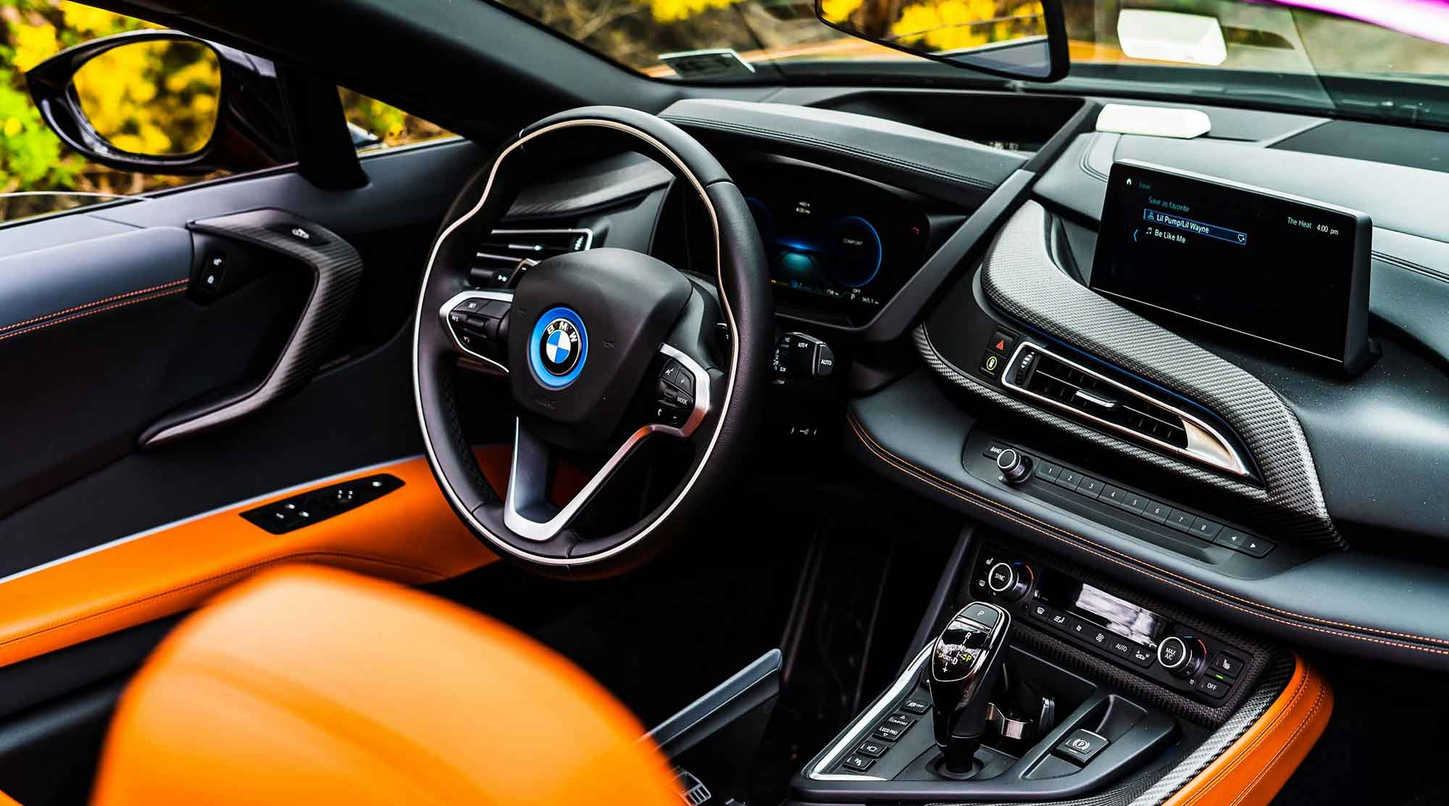
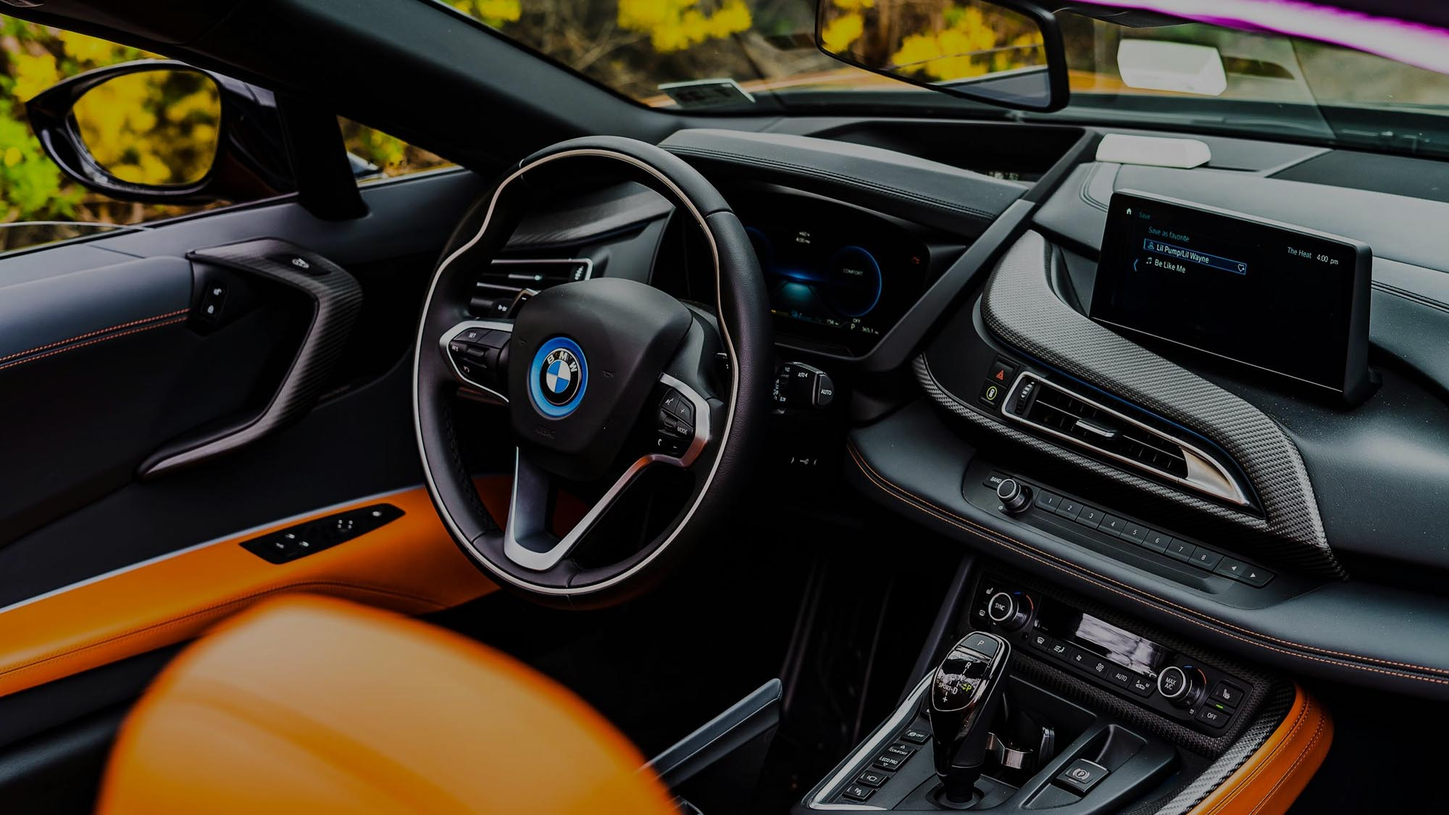
changed img backround about

diff --git a/style/style-about.css b/style/style-about.css
@@ -1,1 +1,1 @@
-header{background-color:black;padding:20px;position:fixed;width:100%;z-index:100}header .navigation{max-width:1300px;width:100%;min-height:30px;margin:auto;display:-webkit-box;display:-ms-flexbox;display:flex;-webkit-box-pack:justify;-ms-flex-pack:justify;justify-content:space-between;-webkit-box-align:center;-ms-flex-align:center;align-items:center;-webkit-box-orient:horizontal;-webkit-box-direction:normal;-ms-flex-direction:row;flex-direction:row;-ms-flex-wrap:nowrap;flex-wrap:nowrap}header .navigation .logo{font-size:25px;color:#FFFFFF;font-family:"Inter Tight",sans-serif;font-weight:300;letter-spacing:3px}header .navigation .logo span{color:#FFD700;font-style:italic}header .navigation .icon{display:none;font-size:30px;color:#FFD700;margin-top:20px;cursor:pointer}header .navigation .list-container{display:-webkit-box;display:-ms-flexbox;display:flex;-webkit-box-align:center;-ms-flex-align:center;align-items:center}header .navigation .list-container li a{color:#FFFFFF;padding:22px 25px;-webkit-transition:all 0.2s ease,color 0.3s ease;transition:all 0.2s ease,color 0.3s ease;font-family:"Inter Tight",sans-serif;font-weight:300;letter-spacing:2px}header .navigation .list-container li a:hover{color:#FFD700;border-bottom:3px solid #FFD700}header .navigation .list-container li a.active{background-color:rgb(26,21,21);color:#FFD700;border-bottom:3px solid #FFD700}@media screen and (max-width:900px){header .navigation{max-width:600px}header .navigation .icon{display:block}header .navigation .list-container{max-width:100vw;width:100%;min-height:100vh;display:none;-ms-flex-pack:distribute;justify-content:space-around;-webkit-box-align:center;-ms-flex-align:center;align-items:center;-webkit-box-orient:vertical;-webkit-box-direction:normal;-ms-flex-direction:column;flex-direction:column;position:absolute;gap:0;padding:0px;margin:0px;top:70px;left:0;background-color:rgba(0,0,0,0.95);z-index:100}header .navigation .list-container.show{display:-webkit-box;display:-ms-flexbox;display:flex}}.about-wrapper{max-width:100vw;min-height:100vh;width:100%;background-image:url(../../../image/internbmw.jpg);background-size:cover;background-position:center;height:500px;background-repeat:no-repeat;background-position:center;background-size:cover;display:-webkit-box;display:-ms-flexbox;display:flex;padding-top:70px}.about-wrapper .about-hero-container{max-width:1200px;width:100%;min-height:200px;margin:auto;display:-webkit-box;display:-ms-flexbox;display:flex;-webkit-box-pack:justify;-ms-flex-pack:justify;justify-content:space-between;-webkit-box-align:center;-ms-flex-align:center;align-items:center;-webkit-box-orient:vertical;-webkit-box-direction:normal;-ms-flex-direction:column;flex-direction:column;-ms-flex-wrap:nowrap;flex-wrap:nowrap;border-radius:5px;background-color:rgba(255,255,255,0.1)}.about-wrapper .about-hero-container .about-title{max-width:1300px;width:100%;min-height:100px;font-family:"Inter Tight",sans-serif;font-weight:200;font-size:90px;letter-spacing:10px;color:#FFFFFF;-webkit-animation:slide-in-title 1.3s ease-in-out;animation:slide-in-title 1.3s ease-in-out;text-align:center;margin:0}@-webkit-keyframes slide-in-title{0%{-webkit-transform:translateX(-100%);transform:translateX(-100%);opacity:0}to{-webkit-transform:translateX(0);transform:translateX(0);opacity:1}}@keyframes slide-in-title{0%{-webkit-transform:translateX(-100%);transform:translateX(-100%);opacity:0}to{-webkit-transform:translateX(0);transform:translateX(0);opacity:1}}.about-wrapper .about-hero-container .cta{font-family:"Inter Tight",sans-serif;font-weight:200;font-size:18px;letter-spacing:2px;color:#FFFFFF;line-height:26px;letter-spacing:2px;text-align:center;max-width:150px;width:100%;min-height:70px;display:-webkit-box;display:-ms-flexbox;display:flex;-webkit-box-pack:justify;-ms-flex-pack:justify;justify-content:space-between;-webkit-box-align:center;-ms-flex-align:center;align-items:center;-webkit-box-orient:vertical;-webkit-box-direction:normal;-ms-flex-direction:column;flex-direction:column;-ms-flex-wrap:nowrap;flex-wrap:nowrap;color:#FFFFFF;cursor:pointer;-webkit-animation:fade-in 2.5s ease-in-out;animation:fade-in 2.5s ease-in-out}@-webkit-keyframes fade-in{0%{opacity:0}to{opacity:1}}@keyframes fade-in{0%{opacity:0}to{opacity:1}}.about-wrapper .about-hero-container .cta a{display:-webkit-box;display:-ms-flexbox;display:flex;-webkit-box-pack:justify;-ms-flex-pack:justify;justify-content:space-between;-webkit-box-align:center;-ms-flex-align:center;align-items:center;-webkit-box-orient:vertical;-webkit-box-direction:normal;-ms-flex-direction:column;flex-direction:column;-ms-flex-wrap:nowrap;flex-wrap:nowrap;max-width:200px;min-height:80px;width:100%;color:#FFFFFF}.about-wrapper .about-hero-container .cta a .bounce{-webkit-animation:bounce 2s ease infinite;animation:bounce 2s ease infinite}@-webkit-keyframes bounce{0%,20%,50%,80%,to{-webkit-transform:translateY(0);transform:translateY(0)}40%{-webkit-transform:translateY(-30px);transform:translateY(-30px)}60%{-webkit-transform:translateY(-15px);transform:translateY(-15px)}}@keyframes bounce{0%,20%,50%,80%,to{-webkit-transform:translateY(0);transform:translateY(0)}40%{-webkit-transform:translateY(-30px);transform:translateY(-30px)}60%{-webkit-transform:translateY(-15px);transform:translateY(-15px)}}.team-wrapper{max-width:100vw;width:100%;min-height:300px;background-color:#FFAD60;display:-webkit-box;display:-ms-flexbox;display:flex;padding:100px 0}.team-wrapper .team-container{max-width:1300px;min-height:750px;width:100%;background-color:#FFAD60;margin:auto;display:-webkit-box;display:-ms-flexbox;display:flex;-webkit-box-pack:justify;-ms-flex-pack:justify;justify-content:space-between;-webkit-box-align:start;-ms-flex-align:start;align-items:flex-start;-webkit-box-orient:vertical;-webkit-box-direction:normal;-ms-flex-direction:column;flex-direction:column;-ms-flex-wrap:nowrap;flex-wrap:nowrap}.team-wrapper .team-container .title-container{max-width:1300px;min-height:100px;width:100%}.team-wrapper .team-container .title-container .heading{font-family:"Inter Tight",sans-serif;font-weight:400;font-size:70px;letter-spacing:10px;color:#333333}.team-wrapper .team-container .team-info-text-container{max-width:1300px;min-height:400px;width:100%;display:-webkit-box;display:-ms-flexbox;display:flex;-webkit-box-pack:justify;-ms-flex-pack:justify;justify-content:space-between;-webkit-box-align:start;-ms-flex-align:start;align-items:flex-start;-webkit-box-orient:vertical;-webkit-box-direction:normal;-ms-flex-direction:column;flex-direction:column;-ms-flex-wrap:nowrap;flex-wrap:nowrap}.team-wrapper .team-container .team-info-text-container .team-info{font-family:"Inter Tight",sans-serif;font-weight:200;font-size:18px;line-height:30px;letter-spacing:2px;color:rgb(26,21,21);line-height:26px;letter-spacing:2px;text-align:justify}.team-wrapper .team-container .team-info-text-container .team-info span{font-style:italic}.team-wrapper .team-container .team_cards{max-width:1300px;min-height:100px;width:100%;margin:auto;display:-webkit-box;display:-ms-flexbox;display:flex;-ms-flex-pack:distribute;justify-content:space-around;-webkit-box-align:center;-ms-flex-align:center;align-items:center;-webkit-box-orient:horizontal;-webkit-box-direction:normal;-ms-flex-direction:row;flex-direction:row;-ms-flex-wrap:wrap;flex-wrap:wrap}.team-wrapper .team-container .team_cards .card{max-width:200px;min-height:100px;width:100%;display:-webkit-box;display:-ms-flexbox;display:flex;-webkit-box-pack:justify;-ms-flex-pack:justify;justify-content:space-between;-webkit-box-align:center;-ms-flex-align:center;align-items:center;-webkit-box-orient:vertical;-webkit-box-direction:normal;-ms-flex-direction:column;flex-direction:column;-ms-flex-wrap:nowrap;flex-wrap:nowrap}.team-wrapper .team-container .team_cards .card img{border-radius:50px;width:100px;margin-bottom:20px;-webkit-box-shadow:2px 10px 12px #333333;box-shadow:2px 10px 12px #333333;-webkit-transition:-webkit-transform 0.1s ease-in-out,-webkit-box-shadow 0.1s ease-in;transition:-webkit-transform 0.1s ease-in-out,-webkit-box-shadow 0.1s ease-in;transition:transform 0.1s ease-in-out,box-shadow 0.1s ease-in;transition:transform 0.1s ease-in-out,box-shadow 0.1s ease-in,-webkit-transform 0.1s ease-in-out,-webkit-box-shadow 0.1s ease-in}.team-wrapper .team-container .team_cards .card img:hover{-webkit-transform:scale(1.05);transform:scale(1.05);-webkit-box-shadow:4px 15px 18px rgba(0,0,0,0.3);box-shadow:4px 15px 18px rgba(0,0,0,0.3)}.team-wrapper .team-container .team_cards .card .card-info-container{text-align:center}.team-wrapper .team-container .team_cards .card .card-info-container .card-email,.team-wrapper .team-container .team_cards .card .card-info-container .card-head,.team-wrapper .team-container .team_cards .card .card-info-container .card-info{font-family:"Inter Tight",sans-serif;color:#461d1d;line-height:20px;letter-spacing:1px;font-size:14px;margin-bottom:10px}.team-wrapper .team-container .team_cards .card .card-info-container .card-email{font-weight:500}.team-wrapper .team-container .team_cards .card .card-info-container .card-email i{font-size:20px;-webkit-transition:0.2s ease-in-out;transition:0.2s ease-in-out}.team-wrapper .team-container .team_cards .card .card-info-container .card-email i:hover{-webkit-transform:scale(1.05);transform:scale(1.05);color:blue}.content-wrapper{max-width:100vw;min-height:700px;width:100%;background-color:#FFFFFF}.content-wrapper .heading-container{max-width:1300px;min-height:100px;width:100%;margin:auto}.content-wrapper .heading-container .title{font-family:"Inter Tight",sans-serif;font-weight:400;font-size:70px;letter-spacing:10px;color:#333333}.content-wrapper .content-container{max-width:1300px;min-height:500px;width:100%;display:-webkit-box;display:-ms-flexbox;display:flex;-webkit-box-pack:justify;-ms-flex-pack:justify;justify-content:space-between;-webkit-box-align:center;-ms-flex-align:center;align-items:center;-webkit-box-orient:horizontal;-webkit-box-direction:normal;-ms-flex-direction:row;flex-direction:row;-ms-flex-wrap:wrap;flex-wrap:wrap;margin:auto}.content-wrapper .content-container .info-container{max-width:650px;width:100%;min-height:400px}.content-wrapper .content-container .info-container .info{font-family:"Inter Tight",sans-serif;font-weight:200;font-size:18px;line-height:30px;letter-spacing:2px;color:rgb(26,21,21);line-height:26px;letter-spacing:2px;text-align:justify}.content-wrapper .content-container .info-container .info span{font-style:italic}.content-wrapper .content-container .image-container{max-width:500px;width:100%;min-height:200px}.content-wrapper .content-container .image-container img{border-radius:4px;width:100%}.our-mission-wrapper{max-width:100vw;min-height:600px;width:100%;background-color:rgb(26,21,21)}.our-mission-wrapper .our-mission-heading-container{max-width:1300px;min-height:100px;width:100%;margin:auto}.our-mission-wrapper .our-mission-heading-container .title{font-family:"Inter Tight",sans-serif;font-weight:400;font-size:70px;letter-spacing:10px;color:#FFFFFF}.our-mission-wrapper .our-mission-content-container{max-width:1300px;min-height:500px;width:100%;display:-webkit-box;display:-ms-flexbox;display:flex;-webkit-box-pack:justify;-ms-flex-pack:justify;justify-content:space-between;-webkit-box-align:center;-ms-flex-align:center;align-items:center;-webkit-box-orient:horizontal;-webkit-box-direction:normal;-ms-flex-direction:row;flex-direction:row;-ms-flex-wrap:wrap;flex-wrap:wrap;margin:auto}.our-mission-wrapper .our-mission-content-container .image-container{max-width:500px;width:100%;min-height:200px}.our-mission-wrapper .our-mission-content-container .image-container img{border-radius:4px;width:100%}.our-mission-wrapper .our-mission-content-container .info-container{max-width:650px;width:100%;min-height:400px}.our-mission-wrapper .our-mission-content-container .info-container .info{font-family:"Inter Tight",sans-serif;font-weight:200;font-size:18px;line-height:30px;letter-spacing:2px;color:rgb(26,21,21);line-height:26px;letter-spacing:2px;text-align:justify;color:#FFFFFF}.our-mission-wrapper .our-mission-content-container .info-container .info span{font-style:italic}.form-wrapper{background-color:#FFFFFF;max-width:100vw;min-height:600px;width:100%}.form-wrapper .form-heading{max-width:1300px;width:100%;min-height:100px;margin:auto}.form-wrapper .form-heading .heading{font-family:"Inter Tight",sans-serif;font-weight:400;font-size:70px;letter-spacing:10px;color:rgb(26,21,21)}.form-wrapper .form-container{max-width:1300px;min-height:600px;width:100%;margin:auto;display:-webkit-box;display:-ms-flexbox;display:flex;-webkit-box-pack:justify;-ms-flex-pack:justify;justify-content:space-between;-webkit-box-align:center;-ms-flex-align:center;align-items:center;-webkit-box-orient:horizontal;-webkit-box-direction:normal;-ms-flex-direction:row;flex-direction:row;-ms-flex-wrap:wrap;flex-wrap:wrap}.form-wrapper .form-container .form{max-width:700px;min-height:300px;width:100%;display:-webkit-box;display:-ms-flexbox;display:flex;-ms-flex-pack:distribute;justify-content:space-around;-webkit-box-align:center;-ms-flex-align:center;align-items:center;-webkit-box-orient:vertical;-webkit-box-direction:normal;-ms-flex-direction:column;flex-direction:column;-ms-flex-wrap:nowrap;flex-wrap:nowrap}.form-wrapper .form-container .form label{display:block;margin-bottom:0.5rem;font-family:"Inter Tight",sans-serif;font-weight:500}.form-wrapper .form-container .form input[type=email],.form-wrapper .form-container .form input[type=text],.form-wrapper .form-container .form textarea{width:100%;padding:0.5rem;margin-bottom:1rem;border:1px solid rgb(26,21,21);border-radius:5px;font-family:"Inter Tight",sans-serif}.form-wrapper .form-container .form input[type=email]:hover,.form-wrapper .form-container .form input[type=text]:hover,.form-wrapper .form-container .form textarea:hover{background-color:#FFEDD8}.form-wrapper .form-container .form input[type=email]:focus,.form-wrapper .form-container .form input[type=text]:focus,.form-wrapper .form-container .form textarea:focus{border-color:#333333}.form-wrapper .form-container .form textarea{resize:none}.form-wrapper .form-container .form button{background:#FFD700;color:rgb(26,21,21);border:none;border-radius:15px;padding:10px 90px;font-size:16px;letter-spacing:1px;cursor:pointer;-webkit-transition:background 0.4s ease,-webkit-transform 0.3s ease;transition:background 0.4s ease,-webkit-transform 0.3s ease;transition:background 0.4s ease,transform 0.3s ease;transition:background 0.4s ease,transform 0.3s ease,-webkit-transform 0.3s ease;margin:15px 0;-webkit-box-shadow:0 4px 8px rgba(0,0,0,0.1);box-shadow:0 4px 8px rgba(0,0,0,0.1);font-family:"Inter Tight",sans-serif}.form-wrapper .form-container .form button:hover{background-color:#ff9501;color:rgb(26,21,21)}.form-wrapper .form-container .form button:active{-webkit-transform:scale(0.95);transform:scale(0.95);-webkit-box-shadow:0 2px 4px rgba(0,0,0,0.2);box-shadow:0 2px 4px rgba(0,0,0,0.2)}.form-wrapper .form-container .map{-webkit-box-flex:3;-ms-flex:3;flex:3;padding:1rem}.form-wrapper .form-container .map iframe{max-width:500px;width:100%;min-height:500px;border-radius:5px}.footer-wrapper{max-width:100vw;min-height:300px;width:100%;background-color:rgb(26,21,21)}.footer-wrapper .footer-content-container{max-width:1300px;min-height:100px;width:100%;display:-webkit-box;display:-ms-flexbox;display:flex;-webkit-box-pack:justify;-ms-flex-pack:justify;justify-content:space-between;-webkit-box-align:center;-ms-flex-align:center;align-items:center;-webkit-box-orient:vertical;-webkit-box-direction:normal;-ms-flex-direction:column;flex-direction:column;-ms-flex-wrap:nowrap;flex-wrap:nowrap;margin:auto}.footer-wrapper .footer-content-container .content{max-width:1000px;width:100%;min-height:100px;border-bottom:0.5px solid #FFD700;display:-webkit-box;display:-ms-flexbox;display:flex;-ms-flex-pack:distribute;justify-content:space-around;-webkit-box-align:center;-ms-flex-align:center;align-items:center;-webkit-box-orient:horizontal;-webkit-box-direction:normal;-ms-flex-direction:row;flex-direction:row;-ms-flex-wrap:nowrap;flex-wrap:nowrap}.footer-wrapper .footer-content-container .content img{max-width:1300px;width:100%;min-height:60px;padding:20px}.footer-wrapper .footer-content-container .links{max-width:1200px;min-height:300px;width:100%;display:-webkit-box;display:-ms-flexbox;display:flex;-ms-flex-pack:distribute;justify-content:space-around;-webkit-box-align:center;-ms-flex-align:center;align-items:center;-webkit-box-orient:horizontal;-webkit-box-direction:normal;-ms-flex-direction:row;flex-direction:row;-ms-flex-wrap:wrap;flex-wrap:wrap}.footer-wrapper .footer-content-container .links .content-container{max-width:200px;min-height:100px;width:100%}.footer-wrapper .footer-content-container .links .content-container .link-list .link{font-family:"Inter Tight",sans-serif;padding:10px;letter-spacing:1px;line-height:36px;color:#FFFFFF;-webkit-transition:0.3s ease-in-out;transition:0.3s ease-in-out}.footer-wrapper .footer-content-container .links .content-container .link-list .link:hover{color:#FFD700}.footer-wrapper .icons{max-width:300px;min-height:100px;width:100%;border-top:1px solid #FFD700;display:-webkit-box;display:-ms-flexbox;display:flex;-webkit-box-pack:justify;-ms-flex-pack:justify;justify-content:space-between;-webkit-box-align:center;-ms-flex-align:center;align-items:center;-webkit-box-orient:horizontal;-webkit-box-direction:normal;-ms-flex-direction:row;flex-direction:row;-ms-flex-wrap:nowrap;flex-wrap:nowrap}.footer-wrapper .icons i{font-size:30px;color:#FFFFFF;-webkit-transition:0.3s ease-in-out;transition:0.3s ease-in-out;cursor:pointer}.footer-wrapper .icons i:hover{-webkit-transform:scale(1.05);transform:scale(1.05);color:#FFD700}*{padding:o;margin:0;text-decoration:none;list-style:none;-webkit-box-sizing:border-box;box-sizing:border-box}html{scroll-behavior:smooth}
+header{background-color:black;padding:20px;position:fixed;width:100%;z-index:100}header .navigation{max-width:1300px;width:100%;min-height:30px;margin:auto;display:-webkit-box;display:-ms-flexbox;display:flex;-webkit-box-pack:justify;-ms-flex-pack:justify;justify-content:space-between;-webkit-box-align:center;-ms-flex-align:center;align-items:center;-webkit-box-orient:horizontal;-webkit-box-direction:normal;-ms-flex-direction:row;flex-direction:row;-ms-flex-wrap:nowrap;flex-wrap:nowrap}header .navigation .logo{font-size:25px;color:#FFFFFF;font-family:"Inter Tight",sans-serif;font-weight:300;letter-spacing:3px}header .navigation .logo span{color:#FFD700;font-style:italic}header .navigation .icon{display:none;font-size:30px;color:#FFD700;margin-top:20px;cursor:pointer}header .navigation .list-container{display:-webkit-box;display:-ms-flexbox;display:flex;-webkit-box-align:center;-ms-flex-align:center;align-items:center}header .navigation .list-container li a{color:#FFFFFF;padding:22px 25px;-webkit-transition:all 0.2s ease,color 0.3s ease;transition:all 0.2s ease,color 0.3s ease;font-family:"Inter Tight",sans-serif;font-weight:300;letter-spacing:2px}header .navigation .list-container li a:hover{color:#FFD700;border-bottom:3px solid #FFD700}header .navigation .list-container li a.active{background-color:rgb(26,21,21);color:#FFD700;border-bottom:3px solid #FFD700}@media screen and (max-width:900px){header .navigation{max-width:600px}header .navigation .icon{display:block}header .navigation .list-container{max-width:100vw;width:100%;min-height:100vh;display:none;-ms-flex-pack:distribute;justify-content:space-around;-webkit-box-align:center;-ms-flex-align:center;align-items:center;-webkit-box-orient:vertical;-webkit-box-direction:normal;-ms-flex-direction:column;flex-direction:column;position:absolute;gap:0;padding:0px;margin:0px;top:70px;left:0;background-color:rgba(0,0,0,0.95);z-index:100}header .navigation .list-container.show{display:-webkit-box;display:-ms-flexbox;display:flex}}.about-wrapper{max-width:100vw;min-height:100vh;width:100%;background-image:url(../../../image/internbmw.jpg);background-size:cover;background-position:center;height:500px;background-repeat:no-repeat;background-position:center;background-size:cover;display:-webkit-box;display:-ms-flexbox;display:flex;padding-top:70px}.about-wrapper .about-hero-container{max-width:1200px;width:100%;min-height:200px;margin:auto;display:-webkit-box;display:-ms-flexbox;display:flex;-webkit-box-pack:justify;-ms-flex-pack:justify;justify-content:space-between;-webkit-box-align:center;-ms-flex-align:center;align-items:center;-webkit-box-orient:vertical;-webkit-box-direction:normal;-ms-flex-direction:column;flex-direction:column;-ms-flex-wrap:nowrap;flex-wrap:nowrap}.about-wrapper .about-hero-container .about-title{max-width:1300px;width:100%;min-height:100px;font-family:"Inter Tight",sans-serif;font-weight:200;font-size:90px;letter-spacing:10px;color:#FFD700;-webkit-animation:slide-in-title 1.3s ease-in-out;animation:slide-in-title 1.3s ease-in-out;text-align:center;margin:0}@-webkit-keyframes slide-in-title{0%{-webkit-transform:translateX(-100%);transform:translateX(-100%);opacity:0}to{-webkit-transform:translateX(0);transform:translateX(0);opacity:1}}@keyframes slide-in-title{0%{-webkit-transform:translateX(-100%);transform:translateX(-100%);opacity:0}to{-webkit-transform:translateX(0);transform:translateX(0);opacity:1}}.about-wrapper .about-hero-container .cta{font-family:"Inter Tight",sans-serif;font-weight:200;font-size:18px;letter-spacing:2px;color:#FFFFFF;line-height:26px;letter-spacing:2px;text-align:center;max-width:150px;width:100%;min-height:70px;display:-webkit-box;display:-ms-flexbox;display:flex;-webkit-box-pack:justify;-ms-flex-pack:justify;justify-content:space-between;-webkit-box-align:center;-ms-flex-align:center;align-items:center;-webkit-box-orient:vertical;-webkit-box-direction:normal;-ms-flex-direction:column;flex-direction:column;-ms-flex-wrap:nowrap;flex-wrap:nowrap;color:#FFD700;cursor:pointer;-webkit-animation:fade-in 2.5s ease-in-out;animation:fade-in 2.5s ease-in-out}@-webkit-keyframes fade-in{0%{opacity:0}to{opacity:1}}@keyframes fade-in{0%{opacity:0}to{opacity:1}}.about-wrapper .about-hero-container .cta a{display:-webkit-box;display:-ms-flexbox;display:flex;-webkit-box-pack:justify;-ms-flex-pack:justify;justify-content:space-between;-webkit-box-align:center;-ms-flex-align:center;align-items:center;-webkit-box-orient:vertical;-webkit-box-direction:normal;-ms-flex-direction:column;flex-direction:column;-ms-flex-wrap:nowrap;flex-wrap:nowrap;max-width:200px;min-height:80px;width:100%;color:#FFD700}.about-wrapper .about-hero-container .cta a i{color:#FFD700}.about-wrapper .about-hero-container .cta a .bounce{-webkit-animation:bounce 2s ease infinite;animation:bounce 2s ease infinite}@-webkit-keyframes bounce{0%,20%,50%,80%,to{-webkit-transform:translateY(0);transform:translateY(0)}40%{-webkit-transform:translateY(-30px);transform:translateY(-30px)}60%{-webkit-transform:translateY(-15px);transform:translateY(-15px)}}@keyframes bounce{0%,20%,50%,80%,to{-webkit-transform:translateY(0);transform:translateY(0)}40%{-webkit-transform:translateY(-30px);transform:translateY(-30px)}60%{-webkit-transform:translateY(-15px);transform:translateY(-15px)}}.team-wrapper{max-width:100vw;width:100%;min-height:300px;background-color:#FFAD60;display:-webkit-box;display:-ms-flexbox;display:flex;padding:100px 0}.team-wrapper .team-container{max-width:1300px;min-height:750px;width:100%;background-color:#FFAD60;margin:auto;display:-webkit-box;display:-ms-flexbox;display:flex;-webkit-box-pack:justify;-ms-flex-pack:justify;justify-content:space-between;-webkit-box-align:start;-ms-flex-align:start;align-items:flex-start;-webkit-box-orient:vertical;-webkit-box-direction:normal;-ms-flex-direction:column;flex-direction:column;-ms-flex-wrap:nowrap;flex-wrap:nowrap}.team-wrapper .team-container .title-container{max-width:1300px;min-height:100px;width:100%}.team-wrapper .team-container .title-container .heading{font-family:"Inter Tight",sans-serif;font-weight:400;font-size:70px;letter-spacing:10px;color:#333333}.team-wrapper .team-container .team-info-text-container{max-width:1300px;min-height:400px;width:100%;display:-webkit-box;display:-ms-flexbox;display:flex;-webkit-box-pack:justify;-ms-flex-pack:justify;justify-content:space-between;-webkit-box-align:start;-ms-flex-align:start;align-items:flex-start;-webkit-box-orient:vertical;-webkit-box-direction:normal;-ms-flex-direction:column;flex-direction:column;-ms-flex-wrap:nowrap;flex-wrap:nowrap}.team-wrapper .team-container .team-info-text-container .team-info{font-family:"Inter Tight",sans-serif;font-weight:200;font-size:18px;line-height:30px;letter-spacing:2px;color:rgb(26,21,21);line-height:26px;letter-spacing:2px;text-align:justify}.team-wrapper .team-container .team-info-text-container .team-info span{font-style:italic}.team-wrapper .team-container .team_cards{max-width:1300px;min-height:100px;width:100%;margin:auto;display:-webkit-box;display:-ms-flexbox;display:flex;-ms-flex-pack:distribute;justify-content:space-around;-webkit-box-align:center;-ms-flex-align:center;align-items:center;-webkit-box-orient:horizontal;-webkit-box-direction:normal;-ms-flex-direction:row;flex-direction:row;-ms-flex-wrap:wrap;flex-wrap:wrap}.team-wrapper .team-container .team_cards .card{max-width:200px;min-height:100px;width:100%;display:-webkit-box;display:-ms-flexbox;display:flex;-webkit-box-pack:justify;-ms-flex-pack:justify;justify-content:space-between;-webkit-box-align:center;-ms-flex-align:center;align-items:center;-webkit-box-orient:vertical;-webkit-box-direction:normal;-ms-flex-direction:column;flex-direction:column;-ms-flex-wrap:nowrap;flex-wrap:nowrap}.team-wrapper .team-container .team_cards .card img{border-radius:50px;width:100px;margin-bottom:20px;-webkit-box-shadow:2px 10px 12px #333333;box-shadow:2px 10px 12px #333333;-webkit-transition:-webkit-transform 0.1s ease-in-out,-webkit-box-shadow 0.1s ease-in;transition:-webkit-transform 0.1s ease-in-out,-webkit-box-shadow 0.1s ease-in;transition:transform 0.1s ease-in-out,box-shadow 0.1s ease-in;transition:transform 0.1s ease-in-out,box-shadow 0.1s ease-in,-webkit-transform 0.1s ease-in-out,-webkit-box-shadow 0.1s ease-in}.team-wrapper .team-container .team_cards .card img:hover{-webkit-transform:scale(1.05);transform:scale(1.05);-webkit-box-shadow:4px 15px 18px rgba(0,0,0,0.3);box-shadow:4px 15px 18px rgba(0,0,0,0.3)}.team-wrapper .team-container .team_cards .card .card-info-container{text-align:center}.team-wrapper .team-container .team_cards .card .card-info-container .card-email,.team-wrapper .team-container .team_cards .card .card-info-container .card-head,.team-wrapper .team-container .team_cards .card .card-info-container .card-info{font-family:"Inter Tight",sans-serif;color:#461d1d;line-height:20px;letter-spacing:1px;font-size:14px;margin-bottom:10px}.team-wrapper .team-container .team_cards .card .card-info-container .card-email{font-weight:500}.team-wrapper .team-container .team_cards .card .card-info-container .card-email i{font-size:20px;-webkit-transition:0.2s ease-in-out;transition:0.2s ease-in-out}.team-wrapper .team-container .team_cards .card .card-info-container .card-email i:hover{-webkit-transform:scale(1.05);transform:scale(1.05);color:blue}.content-wrapper{max-width:100vw;min-height:700px;width:100%;background-color:#FFFFFF}.content-wrapper .heading-container{max-width:1300px;min-height:100px;width:100%;margin:auto}.content-wrapper .heading-container .title{font-family:"Inter Tight",sans-serif;font-weight:400;font-size:70px;letter-spacing:10px;color:#333333}.content-wrapper .content-container{max-width:1300px;min-height:500px;width:100%;display:-webkit-box;display:-ms-flexbox;display:flex;-webkit-box-pack:justify;-ms-flex-pack:justify;justify-content:space-between;-webkit-box-align:center;-ms-flex-align:center;align-items:center;-webkit-box-orient:horizontal;-webkit-box-direction:normal;-ms-flex-direction:row;flex-direction:row;-ms-flex-wrap:wrap;flex-wrap:wrap;margin:auto}.content-wrapper .content-container .info-container{max-width:650px;width:100%;min-height:400px}.content-wrapper .content-container .info-container .info{font-family:"Inter Tight",sans-serif;font-weight:200;font-size:18px;line-height:30px;letter-spacing:2px;color:rgb(26,21,21);line-height:26px;letter-spacing:2px;text-align:justify}.content-wrapper .content-container .info-container .info span{font-style:italic}.content-wrapper .content-container .image-container{max-width:500px;width:100%;min-height:200px}.content-wrapper .content-container .image-container img{border-radius:4px;width:100%}.our-mission-wrapper{max-width:100vw;min-height:600px;width:100%;background-color:rgb(26,21,21)}.our-mission-wrapper .our-mission-heading-container{max-width:1300px;min-height:100px;width:100%;margin:auto}.our-mission-wrapper .our-mission-heading-container .title{font-family:"Inter Tight",sans-serif;font-weight:400;font-size:70px;letter-spacing:10px;color:#FFFFFF}.our-mission-wrapper .our-mission-content-container{max-width:1300px;min-height:500px;width:100%;display:-webkit-box;display:-ms-flexbox;display:flex;-webkit-box-pack:justify;-ms-flex-pack:justify;justify-content:space-between;-webkit-box-align:center;-ms-flex-align:center;align-items:center;-webkit-box-orient:horizontal;-webkit-box-direction:normal;-ms-flex-direction:row;flex-direction:row;-ms-flex-wrap:wrap;flex-wrap:wrap;margin:auto}.our-mission-wrapper .our-mission-content-container .image-container{max-width:500px;width:100%;min-height:200px}.our-mission-wrapper .our-mission-content-container .image-container img{border-radius:4px;width:100%}.our-mission-wrapper .our-mission-content-container .info-container{max-width:650px;width:100%;min-height:400px}.our-mission-wrapper .our-mission-content-container .info-container .info{font-family:"Inter Tight",sans-serif;font-weight:200;font-size:18px;line-height:30px;letter-spacing:2px;color:rgb(26,21,21);line-height:26px;letter-spacing:2px;text-align:justify;color:#FFFFFF}.our-mission-wrapper .our-mission-content-container .info-container .info span{font-style:italic}.form-wrapper{background-color:#FFFFFF;max-width:100vw;min-height:600px;width:100%}.form-wrapper .form-heading{max-width:1300px;width:100%;min-height:100px;margin:auto}.form-wrapper .form-heading .heading{font-family:"Inter Tight",sans-serif;font-weight:400;font-size:70px;letter-spacing:10px;color:rgb(26,21,21)}.form-wrapper .form-container{max-width:1300px;min-height:600px;width:100%;margin:auto;display:-webkit-box;display:-ms-flexbox;display:flex;-webkit-box-pack:justify;-ms-flex-pack:justify;justify-content:space-between;-webkit-box-align:center;-ms-flex-align:center;align-items:center;-webkit-box-orient:horizontal;-webkit-box-direction:normal;-ms-flex-direction:row;flex-direction:row;-ms-flex-wrap:wrap;flex-wrap:wrap}.form-wrapper .form-container .form{max-width:700px;min-height:300px;width:100%;display:-webkit-box;display:-ms-flexbox;display:flex;-ms-flex-pack:distribute;justify-content:space-around;-webkit-box-align:center;-ms-flex-align:center;align-items:center;-webkit-box-orient:vertical;-webkit-box-direction:normal;-ms-flex-direction:column;flex-direction:column;-ms-flex-wrap:nowrap;flex-wrap:nowrap}.form-wrapper .form-container .form label{display:block;margin-bottom:0.5rem;font-family:"Inter Tight",sans-serif;font-weight:500}.form-wrapper .form-container .form input[type=email],.form-wrapper .form-container .form input[type=text],.form-wrapper .form-container .form textarea{width:100%;padding:0.5rem;margin-bottom:1rem;border:1px solid rgb(26,21,21);border-radius:5px;font-family:"Inter Tight",sans-serif}.form-wrapper .form-container .form input[type=email]:hover,.form-wrapper .form-container .form input[type=text]:hover,.form-wrapper .form-container .form textarea:hover{background-color:#FFEDD8}.form-wrapper .form-container .form input[type=email]:focus,.form-wrapper .form-container .form input[type=text]:focus,.form-wrapper .form-container .form textarea:focus{border-color:#333333}.form-wrapper .form-container .form textarea{resize:none}.form-wrapper .form-container .form button{background:#FFD700;color:rgb(26,21,21);border:none;border-radius:15px;padding:10px 90px;font-size:16px;letter-spacing:1px;cursor:pointer;-webkit-transition:background 0.4s ease,-webkit-transform 0.3s ease;transition:background 0.4s ease,-webkit-transform 0.3s ease;transition:background 0.4s ease,transform 0.3s ease;transition:background 0.4s ease,transform 0.3s ease,-webkit-transform 0.3s ease;margin:15px 0;-webkit-box-shadow:0 4px 8px rgba(0,0,0,0.1);box-shadow:0 4px 8px rgba(0,0,0,0.1);font-family:"Inter Tight",sans-serif}.form-wrapper .form-container .form button:hover{background-color:#ff9501;color:rgb(26,21,21)}.form-wrapper .form-container .form button:active{-webkit-transform:scale(0.95);transform:scale(0.95);-webkit-box-shadow:0 2px 4px rgba(0,0,0,0.2);box-shadow:0 2px 4px rgba(0,0,0,0.2)}.form-wrapper .form-container .map{-webkit-box-flex:3;-ms-flex:3;flex:3;padding:1rem}.form-wrapper .form-container .map iframe{max-width:500px;width:100%;min-height:500px;border-radius:5px}.footer-wrapper{max-width:100vw;min-height:300px;width:100%;background-color:rgb(26,21,21)}.footer-wrapper .footer-content-container{max-width:1300px;min-height:100px;width:100%;display:-webkit-box;display:-ms-flexbox;display:flex;-webkit-box-pack:justify;-ms-flex-pack:justify;justify-content:space-between;-webkit-box-align:center;-ms-flex-align:center;align-items:center;-webkit-box-orient:vertical;-webkit-box-direction:normal;-ms-flex-direction:column;flex-direction:column;-ms-flex-wrap:nowrap;flex-wrap:nowrap;margin:auto}.footer-wrapper .footer-content-container .content{max-width:1000px;width:100%;min-height:100px;border-bottom:0.5px solid #FFD700;display:-webkit-box;display:-ms-flexbox;display:flex;-ms-flex-pack:distribute;justify-content:space-around;-webkit-box-align:center;-ms-flex-align:center;align-items:center;-webkit-box-orient:horizontal;-webkit-box-direction:normal;-ms-flex-direction:row;flex-direction:row;-ms-flex-wrap:nowrap;flex-wrap:nowrap}.footer-wrapper .footer-content-container .content img{max-width:1300px;width:100%;min-height:60px;padding:20px}.footer-wrapper .footer-content-container .links{max-width:1200px;min-height:300px;width:100%;display:-webkit-box;display:-ms-flexbox;display:flex;-ms-flex-pack:distribute;justify-content:space-around;-webkit-box-align:center;-ms-flex-align:center;align-items:center;-webkit-box-orient:horizontal;-webkit-box-direction:normal;-ms-flex-direction:row;flex-direction:row;-ms-flex-wrap:wrap;flex-wrap:wrap}.footer-wrapper .footer-content-container .links .content-container{max-width:200px;min-height:100px;width:100%}.footer-wrapper .footer-content-container .links .content-container .link-list .link{font-family:"Inter Tight",sans-serif;padding:10px;letter-spacing:1px;line-height:36px;color:#FFFFFF;-webkit-transition:0.3s ease-in-out;transition:0.3s ease-in-out}.footer-wrapper .footer-content-container .links .content-container .link-list .link:hover{color:#FFD700}.footer-wrapper .icons{max-width:300px;min-height:100px;width:100%;border-top:1px solid #FFD700;display:-webkit-box;display:-ms-flexbox;display:flex;-webkit-box-pack:justify;-ms-flex-pack:justify;justify-content:space-between;-webkit-box-align:center;-ms-flex-align:center;align-items:center;-webkit-box-orient:horizontal;-webkit-box-direction:normal;-ms-flex-direction:row;flex-direction:row;-ms-flex-wrap:nowrap;flex-wrap:nowrap}.footer-wrapper .icons i{font-size:30px;color:#FFFFFF;-webkit-transition:0.3s ease-in-out;transition:0.3s ease-in-out;cursor:pointer}.footer-wrapper .icons i:hover{-webkit-transform:scale(1.05);transform:scale(1.05);color:#FFD700}*{padding:o;margin:0;text-decoration:none;list-style:none;-webkit-box-sizing:border-box;box-sizing:border-box}html{scroll-behavior:smooth}

diff --git a/style/partial/about/_hero-about.scss b/style/partial/about/_hero-about.scss
@@ -22,8 +22,6 @@
         min-height: 200px;
         margin: auto;
         @include container(space-between, center, column);
-        border-radius: 5px;
-        background-color: rgba(255, 255, 255, 0.1);
 
         .about-title{
             max-width: 1300px;
@@ -33,7 +31,7 @@
             font-weight: 200;
             font-size: 90px;
             letter-spacing: 10px;
-            color: color.$white;
+            color: color.$golden;
             animation: slide-in-title 1.3s ease-in-out;
             text-align: center;
             margin: 0;
@@ -56,7 +54,7 @@
             width: 100%;
             min-height: 70px;
             @include container(space-between, center, column);
-            color:color.$white;
+            color:color.$golden;
             cursor: pointer;
             animation: fade-in 2.5s ease-in-out;
 
@@ -74,8 +72,11 @@
                 max-width: 200px;
                 min-height: 80px;
                 width: 100%;
-                color:color.$white;
+                color:color.$golden;
 
+                i{
+                    color: color.$golden;
+                }
                     .bounce {
                     animation: bounce 2s ease infinite;
                     

diff --git a/pages/about.html b/pages/about.html
@@ -31,7 +31,7 @@
 
     <!--HERO ABOUT-->
     <section class="about-wrapper">
-        <section class="about-hero-container">
+        <section class="about-hero-container fade">
             <h1 class="about-title">
                 ABOUT US
             </h1>
